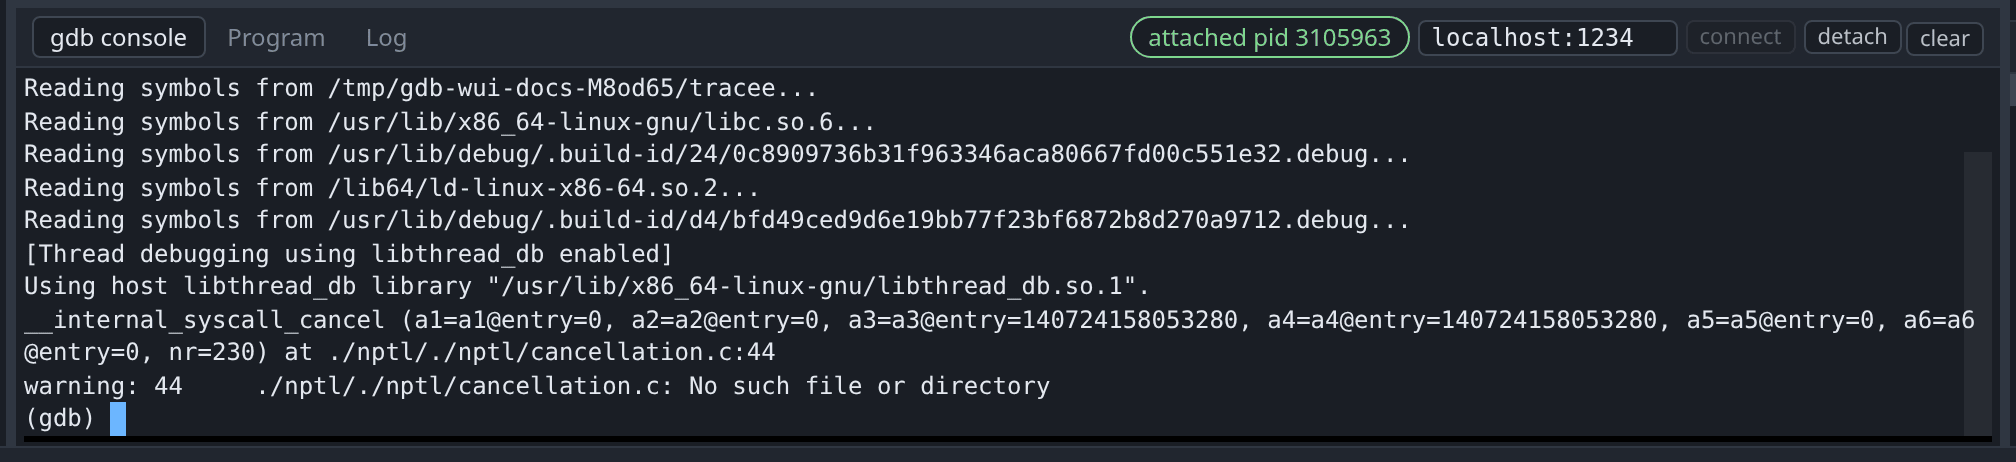
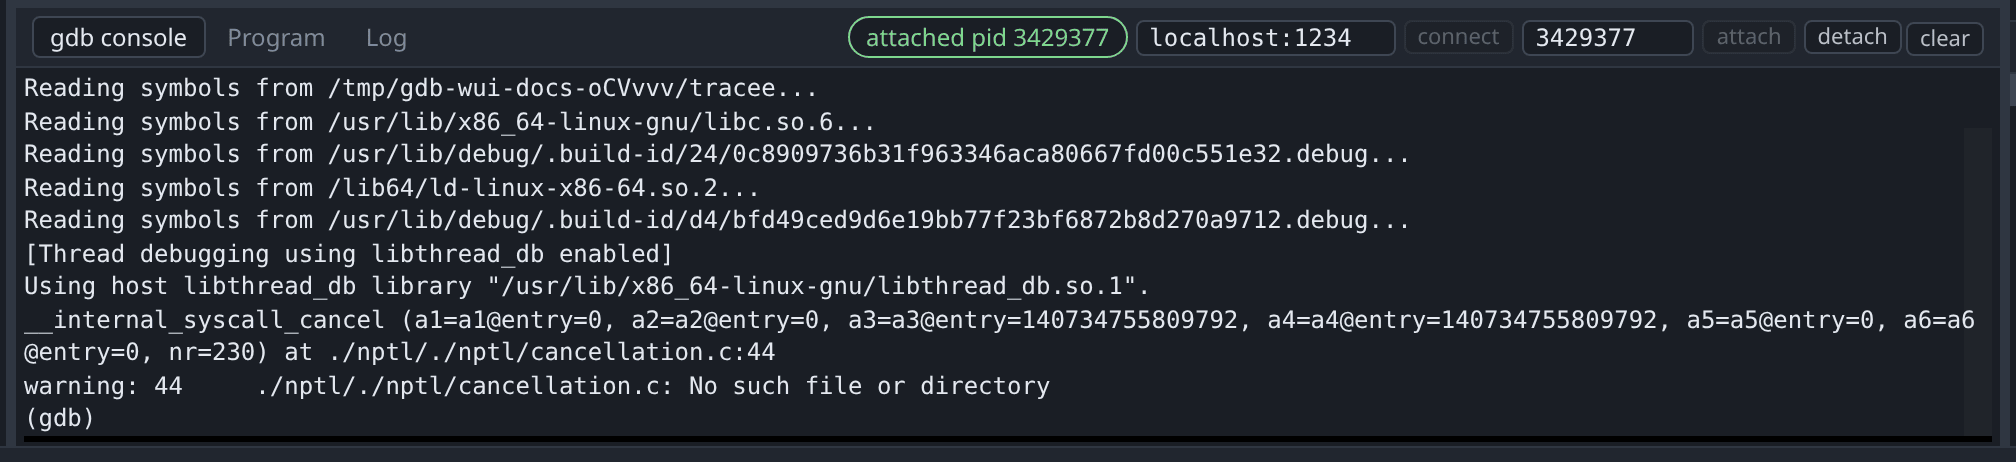
Attach from a box, rather than by typing the command
A pid box and an attach button, beside the address box they resemble, because
"type this at the console" is a worse answer for the commonest way to start a
session than it is for a stub's address. Enter attaches, as it does in the box
next door.

It runs `attach <pid>`, the same route the connect button takes: the console
below shows the command and gdb's own answer, and one console command can still
make or break the same state. The box takes a bare pid and nothing else — gdb's
`attach` also accepts a core file, and on some systems a process name, and a
field that quietly forwarded either would make the button's one line of
explanation false.

A refusal says where to look and names the usual cause. "ptrace: Operation not
permitted." is in the console, which is right, but on its own it sends people
hunting for a permissions problem in their program rather than for
kernel.yama.ptrace_scope.

The scene now drives the box, and asserts the pid it holds is not clipped: the
first width fitted six digits of a seven-digit pid, so the picture showed one
number in the box and another in the pill.

Regenerated every image and kept the seven that changed — the console's tab bar
is in shot in all of them.

Claude-Session: https://claude.ai/code/session_01Tvpn1EMCezVBaD41YbDJ13

diff --git a/internal/assets/web/js/main.js b/internal/assets/web/js/main.js
@@ -92,6 +92,8 @@ const ui = {
   remoteAddr: el("remote-addr"),
   remoteConnect: el("remote-connect"),
   remoteDisconnect: el("remote-disconnect"),
+  attachPid: el("attach-pid"),
+  attachConnect: el("attach-connect"),
   buttons: {
     run: el("btn-run"),
     runMain: el("btn-run-main"),
@@ -1997,6 +1999,8 @@ function applyRemote(remote) {
       ? (remote.pid ? `attached pid ${remote.pid}` : "attached")
       : `remote ${remote.address || "connected"}`;
   ui.remoteConnect.disabled = connected;
+  ui.attachConnect.disabled = connected;
+  ui.attachPid.disabled = connected;
   ui.remoteDisconnect.disabled = !connected;
   ui.remoteDisconnect.textContent = attached ? "detach" : "disconnect";
   ui.remoteDisconnect.title = attached
@@ -2016,7 +2020,12 @@ function remoteBusy(text) {
 // remoteChanged event settle the indicator. Nothing here predicts the outcome:
 // on failure the pill goes back to whatever the server still believes, which
 // for a refused connection is "no target".
-function runRemoteCommand(line, pending) {
+//
+// settled is given the state the server ended up in, for a caller with
+// something to say about a command that did not take. It runs after the pill
+// has been repainted, and the event it reads has already arrived: the server
+// broadcasts before it answers, and both travel the same socket in order.
+function runRemoteCommand(line, pending, settled) {
   const before = store.get("session.remote");
   remoteBusy(pending);
   send("console.exec", { line })
@@ -2024,7 +2033,9 @@ function runRemoteCommand(line, pending) {
     .finally(() => {
       // If the command changed anything, remoteChanged has already repainted
       // this and applyRemote below is a no-op on identical state.
-      applyRemote(store.get("session.remote") ?? before);
+      const now = store.get("session.remote") ?? before;
+      applyRemote(now);
+      settled?.(now);
     });
 }
 
@@ -2067,6 +2078,41 @@ ui.remoteConnect.addEventListener("click", () => {
     return;
   }
   connectRemote(addr);
+});
+
+// Attaching is `attach <pid>`, the same command and the same route as the
+// address box beside it. The box takes a bare pid rather than anything gdb
+// would parse: `attach` also accepts a core file and, on some systems, a
+// process name, and a field that quietly forwarded either would make the
+// button's one sentence of explanation false.
+function attachToPid(pid) {
+  runRemoteCommand(`attach ${pid}`, "attaching…", (state) => {
+    if (state?.kind === "attach") return;
+    // gdb's own words are in the console below, which is the point of going
+    // through it; this says where to look and names the usual cause, because
+    // "Operation not permitted" on its own sends people hunting for the wrong
+    // thing.
+    setStatus(`gdb did not attach to pid ${pid} — see the console. On Linux ` +
+      "this is usually kernel.yama.ptrace_scope, which permits attaching only " +
+      "to a descendant.", true);
+  });
+}
+
+ui.attachConnect.addEventListener("click", () => {
+  const pid = ui.attachPid.value.trim();
+  if (!/^[0-9]+$/.test(pid) || Number(pid) <= 0) {
+    setStatus("Enter the process id to attach to, such as 1234.", true);
+    ui.attachPid.focus();
+    return;
+  }
+  attachToPid(pid);
+});
+
+ui.attachPid.addEventListener("keydown", (ev) => {
+  if (ev.key === "Enter" && !ui.attachConnect.disabled) {
+    ev.preventDefault();
+    ui.attachConnect.click();
+  }
 });
 
 ui.remoteDisconnect.addEventListener("click", () => {

diff --git a/internal/assets/web/index.html b/internal/assets/web/index.html
@@ -186,6 +186,12 @@
                spellcheck="false" autocomplete="off">
         <button id="remote-connect" class="btn btn-small"
                 title="target remote — connect gdb to a gdbserver or emulator stub">connect</button>
+        <input id="attach-pid" class="addr-input attach-pid" type="text"
+               inputmode="numeric" placeholder="pid"
+               aria-label="Process id to attach to"
+               spellcheck="false" autocomplete="off">
+        <button id="attach-connect" class="btn btn-small"
+                title="attach — debug a process already running on this machine">attach</button>
         <button id="remote-disconnect" class="btn btn-small"
                 title="disconnect — leave the target running">disconnect</button>
       </span>

diff --git a/internal/assets/web/css/panels.css b/internal/assets/web/css/panels.css
@@ -842,6 +842,13 @@
 
 .remote-addr { min-width: 16ch; width: 18ch; }
 
+/* Narrower than the address box beside it, which is the clearest signal that
+ * the two take different things — but not so narrow that it clips what it
+ * holds. Linux allows a pid of seven digits by default and more with a raised
+ * pid_max, and the width is border-box: the padding and the border take about
+ * a character and a half of it before any digit is drawn. */
+.attach-pid { min-width: 8ch; width: 12ch; }
+
 .pill[data-remote="off"] { color: var(--fg-2); }
 .pill[data-remote="on"]  { color: var(--ok); border-color: var(--ok); }
 .pill[data-remote="busy"] { color: var(--warn); border-color: var(--warn); }

diff --git a/docs/features/remote.md b/docs/features/remote.md
@@ -15,9 +15,10 @@ closer up: a target it did not start and must not kill.
 ![Attached to a gdbserver](../images/remote.png)
 
 The address box and the **connect** and **disconnect** buttons are in the
-console's tab bar, with a pill showing whether gdb is attached. The buttons run
-`target remote <address>` and `disconnect`, so the console below shows what ran,
-and shows gdb's own error text if the stub refuses.
+console's tab bar, with a pill showing whether gdb is attached, and a pid box
+for [attaching to a local process](#attaching-to-a-local-process) beside them.
+The buttons run `target remote <address>` and `disconnect`, so the console below
+shows what ran, and shows gdb's own error text if the stub refuses.
 
 Disconnecting uses `disconnect` rather than `detach`, because `detach` resumes
 the target and someone inspecting a stopped machine usually does not want that.
@@ -55,10 +56,14 @@ sudo apt install gdb-multiarch
 
 ![Attached to a process that was already running](../images/attach.png)
 
-Type `attach <pid>` at the [console](console.md). There is nothing to load
-first: gdb reads the program out of `/proc/<pid>/exe`, symbols and architecture
-together, so the ordering care above applies to stubs and not to this. The pill
-reads `attached pid 1234` and the button beside it becomes **detach**.
+Put the pid in the narrow box beside the address one, and press **attach** or
+Enter. It runs `attach <pid>`, so the console below shows the command and gdb's
+answer to it, and typing that yourself does the same thing.
+
+There is nothing to load first: gdb reads the program out of `/proc/<pid>/exe`,
+symbols and architecture together, so the ordering care above applies to stubs
+and not to this. The pill reads `attached pid 1234` and the button at the end of
+the bar becomes **detach**.
 
 Detaching leaves the process running, and so does shutting gdb-wui down — a
 program that was somebody else's before the session stays theirs afterwards.
@@ -111,8 +116,8 @@ qemu-aarch64 -g 1234 -L /path/to/sysroot ./yourbinary &
 - **It does not detect the target's architecture.** The architecture comes from
   the ELF you load, which is why the order matters.
 - **It does not open core dumps.**
-- **There is no attach button.** Attaching is a console command; only the
-  indicator and the detach button know about it.
+- **It does not list processes to pick from.** The attach box takes a pid you
+  already have, from `pgrep`, `ps` or whatever started the thing.
 - **`extended-remote`, `target sim` and similar are not on the buttons.** Type
   them at the [console](console.md); the pill follows, because it reflects gdb's
   state rather than which button was pressed.

diff --git a/README.md b/README.md
@@ -93,7 +93,7 @@ breakpoints are kept.
 | A program with its own terminal | Full terminal emulation for curses programs |
 | Several browser tabs on one session | Multi-user, auth beyond loopback, TLS |
 | Remote targets: connect, disconnect, symbols-only loading | Auto-detecting a foreign target's architecture |
-| `attach <pid>` at the console, and detach without killing | An attach button, or a pid picker |
+| Attach to a running process by pid, and detach without killing | Choosing it from a list of processes |
 | | Follow-fork, multi-inferior |
 | | Windows, macOS |
 
